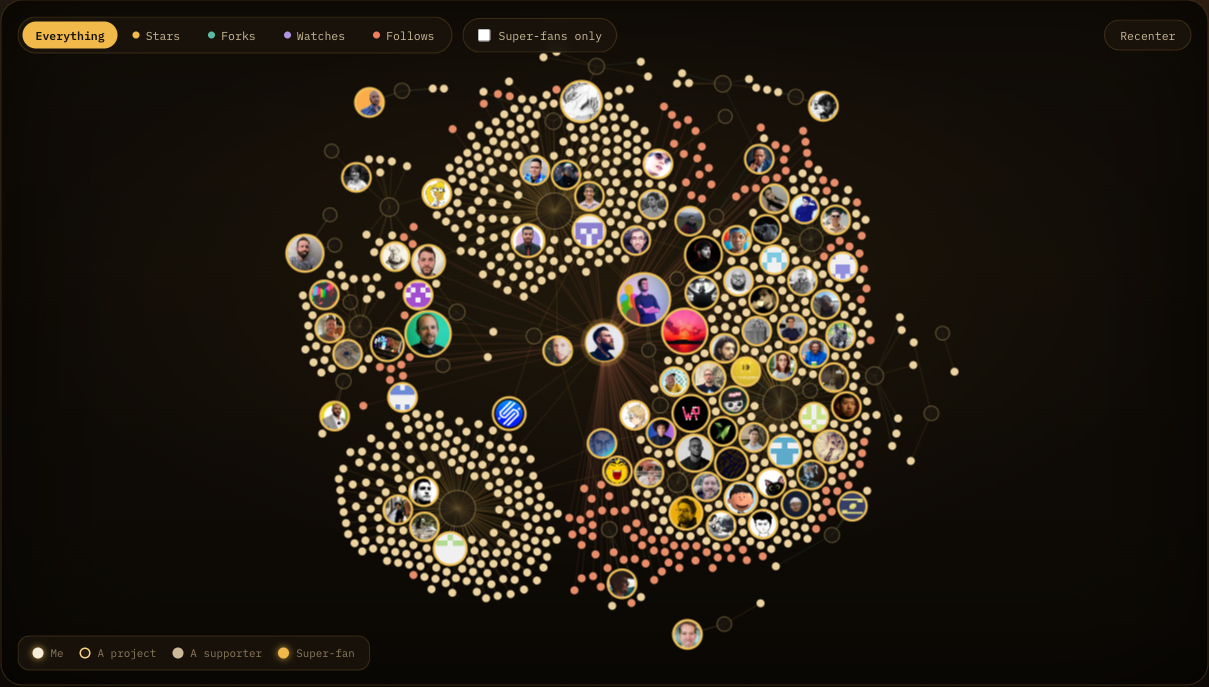
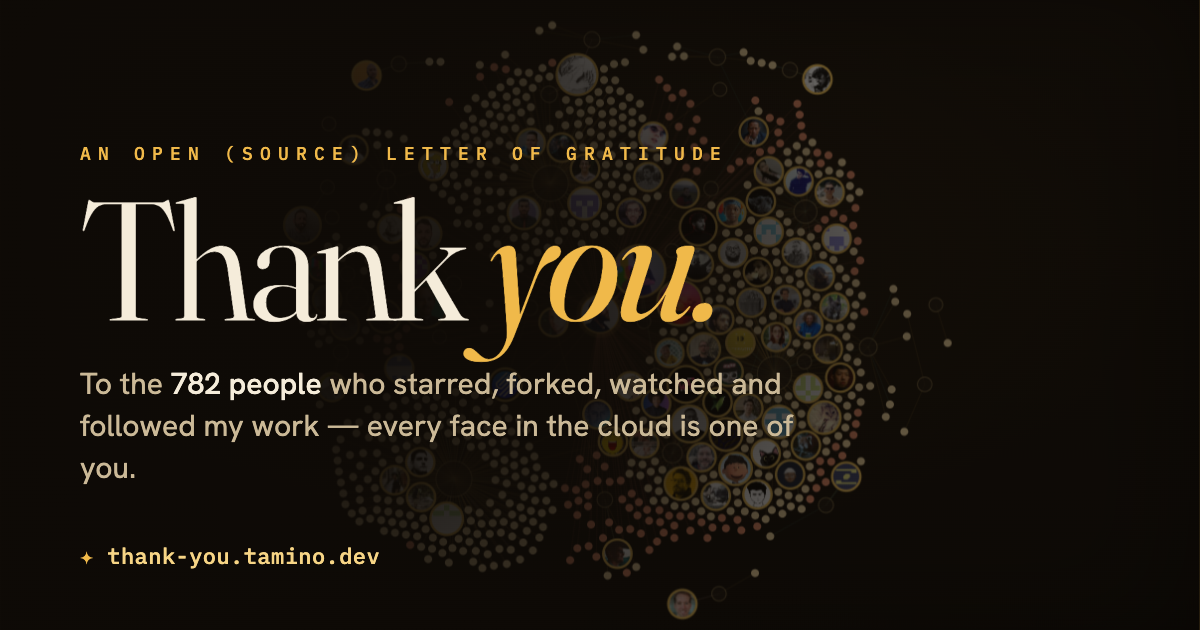
Branded 1200x630 social card + fork-readiness docs
- replace the raw cloud screenshot OG image with a designed 1200x630 card
  (title + count + domain over a faded cloud) — matches the declared og:image dims
- README: document the forks-disable-scheduled-workflows gotcha, that config edits
  only apply after a sync, the GH_PAT-for-large-accounts nudge, the codepen/twitter/
  linkedin stub blocks, and excludePeople; reference the MIT license
- buildPresence: null-safe section hide

diff --git a/site/main.js b/site/main.js
@@ -613,7 +613,7 @@ function buildPresence(g) {
   const items = g.presence || [];
   const grid = $("#presence-grid");
   if (!grid) return;
-  if (!items.length) { grid.closest("section").hidden = true; return; }
+  if (!items.length) { grid.closest("section")?.setAttribute("hidden", ""); return; }
   grid.innerHTML = items
     .map(
       (p) => `<a class="presence-card" href="${esc(safeUrl(p.url))}" target="_blank" rel="noopener">

diff --git a/README.md b/README.md
@@ -25,19 +25,26 @@ You can have your own graph live in about five minutes — no server, no databas
    `sources.github.username`, your `presence` links, and `repoUrl`. That's the only file you need
    to touch — and **no secrets are required**.
 
-3. **Turn on Pages** — **Settings → Pages → Build and deployment → Source: GitHub Actions**.
+3. **Enable Actions on the fork** — open the **Actions** tab and click **"I understand my
+   workflows, go ahead and enable them."** GitHub **disables scheduled workflows on forks** by
+   default, so the nightly refresh won't fire until you do this once.
 
-4. **Run it** — **Actions → Sync & deploy → Run workflow**. It collects your data, publishes the
-   curated graph, and deploys.
+4. **Turn on Pages** — **Settings → Pages → Build and deployment → Source: GitHub Actions**.
 
-5. **Done** — your page is live at `https://<your-username>.github.io/<repo>/`, and it refreshes
-   itself **every night**.
+5. **Run it** — **Actions → Sync & deploy → Run workflow**. It collects your data, publishes the
+   curated graph, and deploys. *(Your `config.json` edits only take effect after this runs — until
+   then `serve`/the committed sample still shows the original author's data.)*
 
-> *(Optional)* Add a `GH_PAT` secret — a classic token with **no scopes** — for a 5,000/hr API
-> rate limit instead of the built-in token's ~1,000/hr. Handy if you have a lot of repos/stars.
+6. **Done** — your page is live at `https://<your-username>.github.io/<repo>/`, and it refreshes
+   itself **every night** (as long as you did step 3).
+
+> *(Optional, but recommended for large accounts)* Add a `GH_PAT` secret — a classic token with
+> **no scopes** — for a 5,000/hr API limit instead of the built-in token's ~1,000/hr. A run on a
+> big account can otherwise stall waiting for the rate limit to reset.
 >
 > Haven't configured anything yet? `npm run serve` already renders the committed sample graph, so
-> a fresh fork shows *this* page before you touch a thing.
+> a fresh fork shows *this* page before you touch a thing (it'll show the original author's links
+> until your first sync overwrites the data).
 
 ### Custom domain (optional)
 
@@ -121,13 +128,15 @@ Everything tweakable lives in [`config.json`](config.json):
 | Key | What it controls |
 | --- | --- |
 | `owner.name`, `owner.tagline` | your name + the line under the title |
-| `sources.<platform>.enabled`, `.username` | which sources run, and the handles |
+| `sources.github.username` | the GitHub account to thank people from |
+| `sources.{codepen,twitter,linkedin}` | stubs — disabled by default; their *data* needs a manual export at `data/import/<source>.json` (`src/collectors/imports.ts`) |
 | `aggregate.superFanThreshold` | interactions needed to earn a face (default 2) |
 | `aggregate.gemMaxStars` | the "worth a star" star ceiling (default 1,000) |
 | `aggregate.activeWithinMonths` | how recent a push counts as "active" (default 12) |
 | `aggregate.maxPeopleInGraph` | cap on people drawn into the cloud |
+| `aggregate.excludePeople` | GitHub logins to leave out of the public graph (opt-out) |
 | `dependencies.includeTransitive`, `.transitiveLimit` | second-grade ("two hops away") deps |
-| `presence` | the "where else to find me" links |
+| `presence` | the "where else to find me" links (just labels + URLs) |
 | `repoUrl` | the titlebar **GitHub ↗** link |
 | `cname` | custom domain (or `null`) |
 
